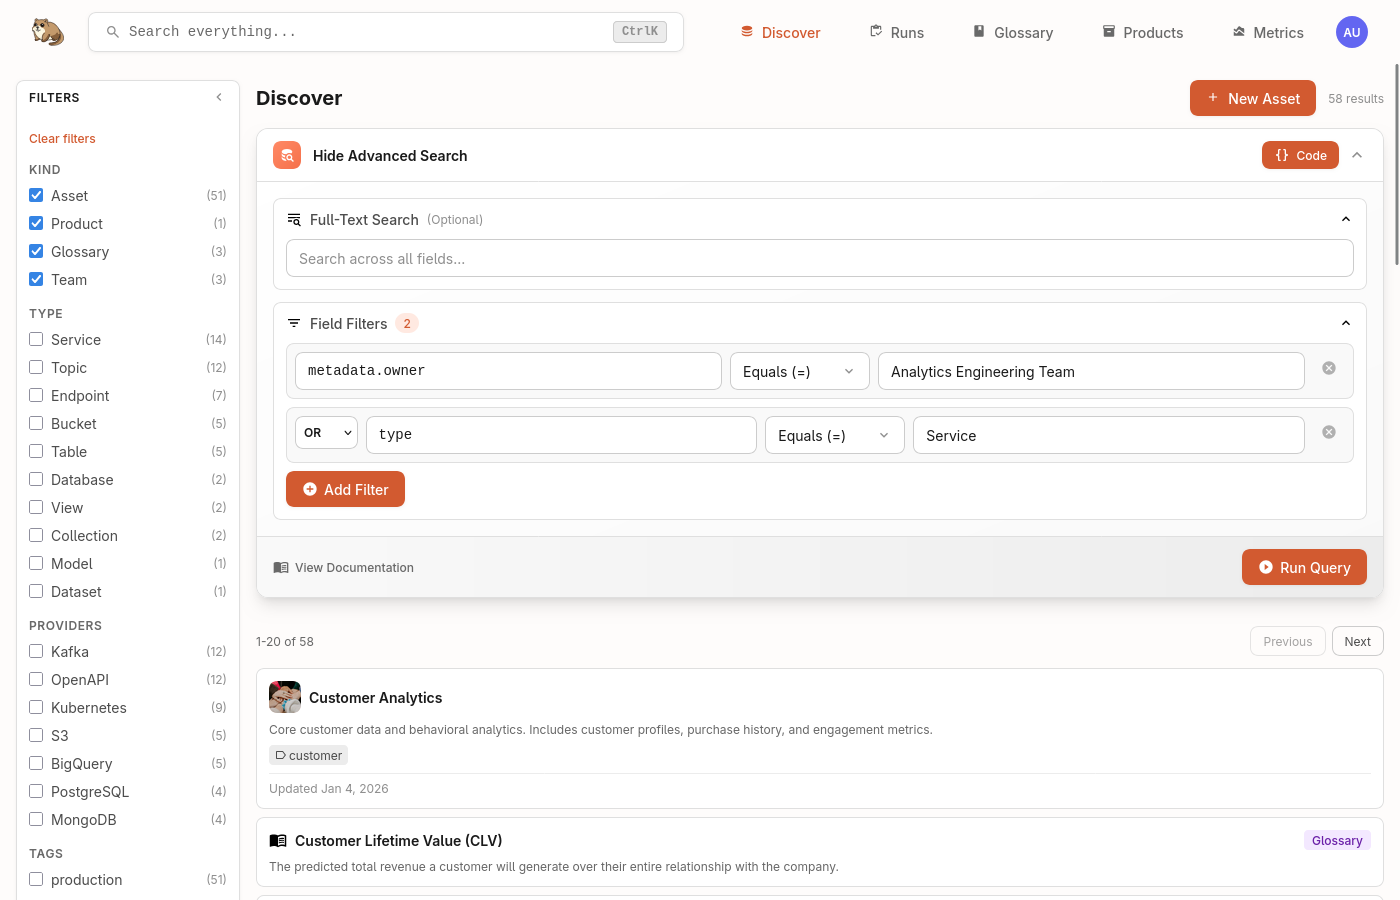
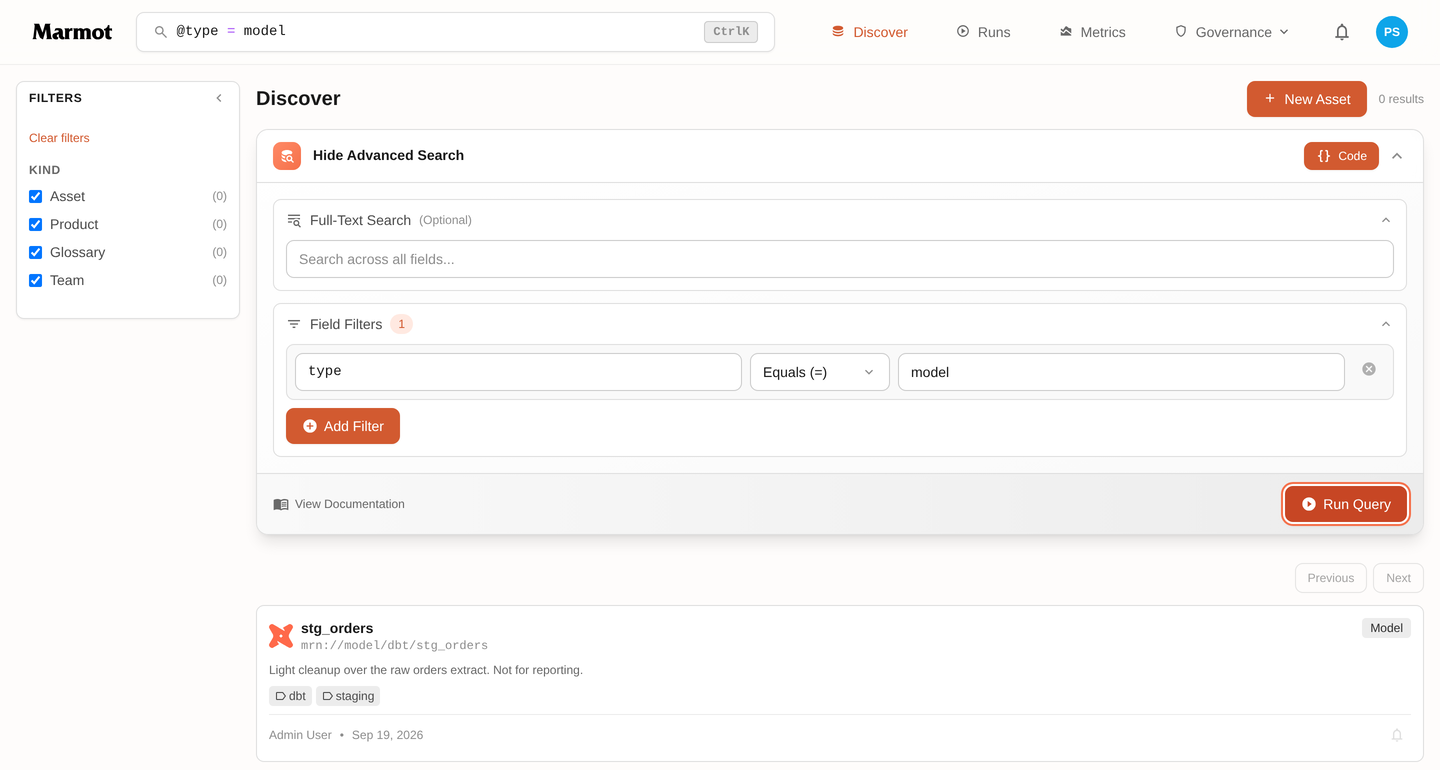
docs: recreate the asset rule and query builder figures in both themes

diff --git a/web/docs/docs/asset-rules.md b/web/docs/docs/asset-rules.md
@@ -3,6 +3,7 @@ sidebar_position: 6
 ---
 
 import { CalloutCard } from '@site/src/components/DocCard';
+import { ThemedImg } from '@site/src/components/ThemedImg';
 
 # Asset Rules
 
@@ -24,36 +25,64 @@ Navigate to **Asset Rules** under **Governance** in the header and click **Creat
 
 Give your rule a unique name and an optional description.
 
-<img src="/img/asset-rules-basicinfo.png" alt="Basic Information" />
+<ThemedImg
+  lightSrc="/img/asset-rules-basicinfo-light.png"
+  darkSrc="/img/asset-rules-basicinfo-dark.png"
+  alt="Step one of the asset rule wizard, with a name and description"
+/>
 
 ### Enrichments
 
 Choose what to apply to matching assets. A rule must include at least one of:
 
-- **External links** — runbooks, dashboards, wiki pages or monitoring URLs. Each link has a name, URL and optional icon.
-- **Glossary terms** — select one or more terms from your existing glossary to associate with matching assets.
+- **External links**: runbooks, dashboards, wiki pages or monitoring URLs. Each link has a name, URL and optional icon.
+- **Glossary terms**: select one or more terms from your existing glossary to associate with matching assets.
 
-<img src="/img/asset-rules-enrichments.png" alt="Enrichments" />
+<ThemedImg
+  lightSrc="/img/asset-rules-enrichments-light.png"
+  darkSrc="/img/asset-rules-enrichments-dark.png"
+  alt="Step two of the asset rule wizard, with an external link and a glossary term attached"
+/>
 
 ### Query
 
 Define which assets the rule should match using Marmot's query language (the same syntax used in search). For example:
 
-- `@type: "table" AND @provider: "postgres"` — all PostgreSQL tables
-- `@tag: "pii"` — any asset tagged as PII
-- `@metadata.owner = "platform-team"` — assets owned by a specific team
+- `@type: "table"` matches every table in the catalog
+- `@provider: "PostgreSQL"` matches everything discovered from PostgreSQL
+- `@metadata.owner: "platform-team"` matches assets whose `owner` metadata field names that team
+
+The fields are the ones the [query language](queries.md) supports: `@type`, `@provider`, `@name`, `@kind` and `@metadata.*`. Values are matched as stored, so use the provider name exactly as it appears in the catalog.
 
 Use the **Preview** button to see which assets currently match before saving.
 
-<img src="/img/asset-rules-query.png" alt="Query" />
+<ThemedImg
+  lightSrc="/img/asset-rules-query-light.png"
+  darkSrc="/img/asset-rules-query-dark.png"
+  alt="Step three of the asset rule wizard, previewing how many assets the query matches"
+/>
 
 ## How Rules Are Applied
+
+Once a rule matches, its enrichments show up on the asset itself: external links beside the title, glossary terms in the sidebar.
+
+<ThemedImg
+  lightSrc="/img/glossary-on-asset-light.png"
+  darkSrc="/img/glossary-on-asset-dark.png"
+  alt="An asset page showing the runbook link and the glossary term that an asset rule attached"
+/>
 
 Rules are evaluated every 30 minutes by default and whenever a new asset is added to the Catalog. Only rules whose configuration or matching assets have changed are re-evaluated. When multiple rules match the same asset, all enrichments are applied.
 
 Rules can be enabled or disabled at any time. Disabled rules retain their configuration so you can re-enable them later.
 
 ## Managing Rules
+
+<ThemedImg
+  lightSrc="/img/asset-rules-list-light.png"
+  darkSrc="/img/asset-rules-list-dark.png"
+  alt="The Asset Rules page listing rules with their match counts and status"
+/>
 
 The Asset Rules page lists all rules with their match count, number of links and terms, enabled status and last updated time. Click any rule to view its configuration or see matched assets.
 

diff --git a/web/docs/docs/queries.md b/web/docs/docs/queries.md
@@ -2,6 +2,7 @@
 sidebar_position: 5
 ---
 
+import { ThemedImg } from '@site/src/components/ThemedImg';
 import { CalloutCard, FeatureCard, FeatureGrid } from '@site/src/components/DocCard';
 
 # Query Language
@@ -41,7 +42,11 @@ The query language powers several features across Marmot:
 
 The search bar includes a visual query builder that helps you construct queries without memorising the syntax. Click the filter icon to open it, select your field and operator, then enter your value. The builder generates the query syntax automatically.
 
-<img src="/img/query-builder-light.png" alt="Query builder in Marmot" />
+<ThemedImg
+  lightSrc="/img/query-builder-light.png"
+  darkSrc="/img/query-builder-dark.png"
+  alt="The advanced search builder on Discover, with a field filter and the query it generates in the search bar"
+/>
 
 ## Syntax Reference
 
